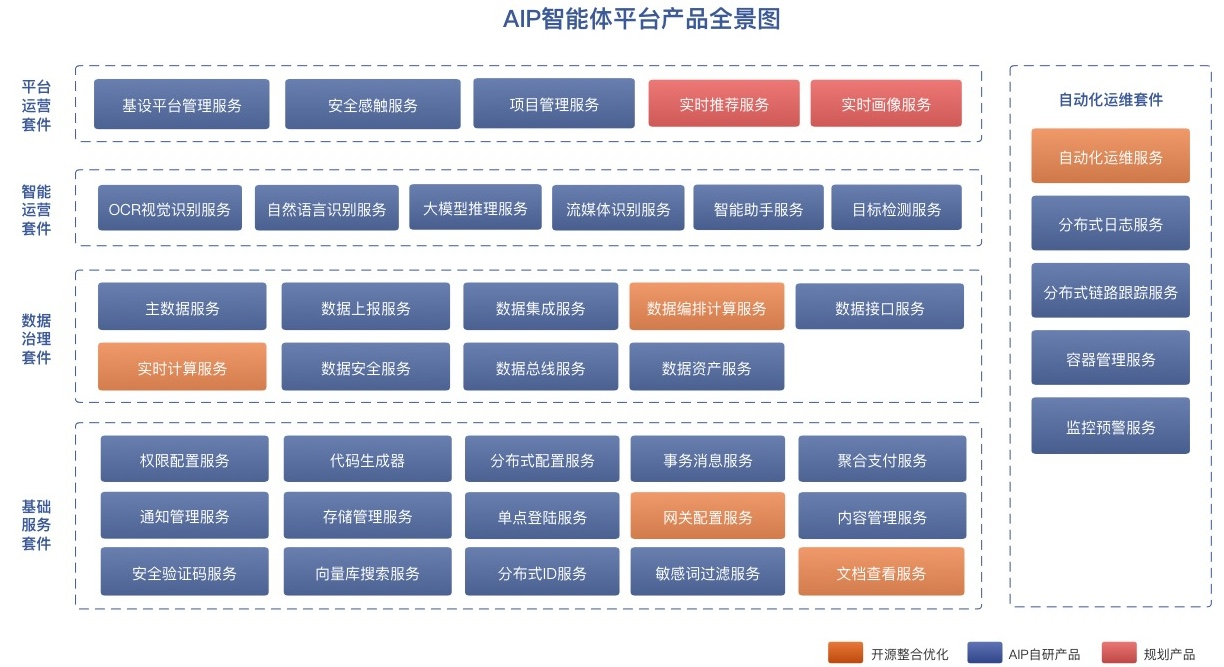
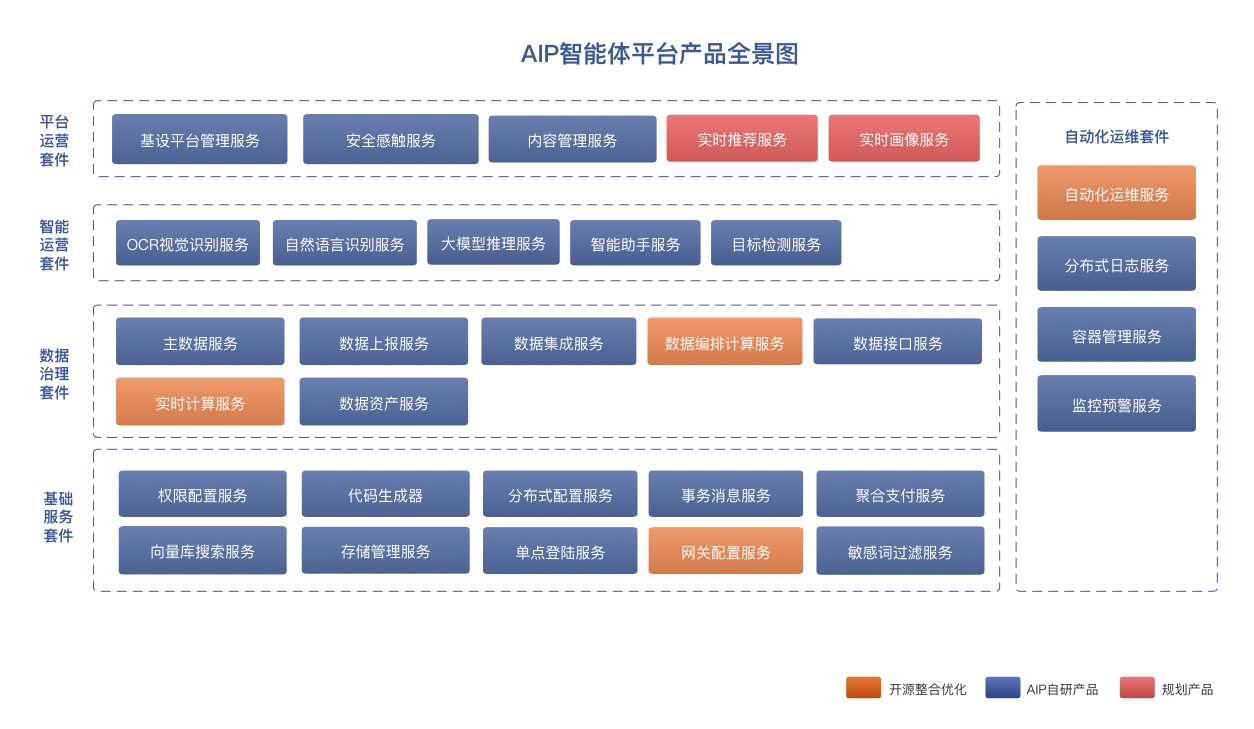
feat:调整产品全景图

diff --git a/docs/product/ProductIntro.md b/docs/product/ProductIntro.md
@@ -34,38 +34,30 @@
 | 1    | 基础服务    | 01. 权限配置服务       | alinesno-infra-base-authority        | <i class="fa-solid fa-file-pdf"></i>[查看产品PPT介绍][alinesno-infra-base-authority]        | 编写中 |                     |
 | 2    |             | 02. 代码生成器         | alinesno-infra-base-starter          | <i class="fa-solid fa-file-pdf"></i>[查看产品PPT介绍][alinesno-infra-base-starter]          | 编写中 |                     |
 | 3    |             | 03. 分布式配置服务     | alinesno-infra-base-config           | <i class="fa-solid fa-file-pdf"></i>[查看产品PPT介绍][alinesno-infra-base-config]           | 编写中 |                     |
-| 4    |             | 20. 文档查看服务       | alinesno-infra-base-fileshow         | <i class="fa-solid fa-file-pdf"></i>[查看产品PPT介绍][alinesno-infra-base-fileshow ]        | 编写中 |                     |
-| 5    |             | 04. 事务消息服务       | alinesno-infra-base-message          | <i class="fa-solid fa-file-pdf"></i>[查看产品PPT介绍][alinesno-infra-base-message]          | 编写中 |                     |
-| 6    |             | 05. 通知管理服务       | alinesno-infra-base-notices          | <i class="fa-solid fa-file-pdf"></i>[查看产品PPT介绍][alinesno-infra-base-notices]          | 编写中 |                     |
-| 7    |             | 06. 存储管理服务       | alinesno-infra-base-storage          | <i class="fa-solid fa-file-pdf"></i>[查看产品PPT介绍][alinesno-infra-base-storage]          | 编写中 |                     |
-| 8    |             | 07. 单点登陆服务       | alinesno-infra-base-identity         | <i class="fa-solid fa-file-pdf"></i>[查看产品PPT介绍][alinesno-infra-base-identity]         | 编写中 |                     |
-| 9    |             | 08. 网关配置服务       | alinesno-infra-base-gateway          | <i class="fa-solid fa-file-pdf"></i>[查看产品PPT介绍][alinesno-infra-base-gateway]          | 编写中 |                     |
-| 10   |             | 09. 安全验证码服务     | alinesno-infra-base-validate         | <i class="fa-solid fa-file-pdf"></i>[查看产品PPT介绍][alinesno-infra-base-validate]         | 编写中 |                     |
-| 11   |             | 12. 文档搜索服务       | alinesno-infra-base-document         | <i class="fa-solid fa-file-pdf"></i>[查看产品PPT介绍][alinesno-infra-base-document]         | 编写中 |                     |
-| 12   |             | 13. 分布式ID服务       | alinesno-infra-base-id               | <i class="fa-solid fa-file-pdf"></i>[查看产品PPT介绍][alinesno-infra-base-id]               | 编写中 |                     |
-| 13   |             | 14. 敏感词过滤服务     | alinesno-infra-base-sensitive        | <i class="fa-solid fa-file-pdf"></i>[查看产品PPT介绍][alinesno-infra-base-sensitive]        | 编写中 |                     |
-| 14   |             | 15. 支付服务           | alinesno-infra-base-pay              | <i class="fa-solid fa-file-pdf"></i>[查看产品PPT介绍][alinesno-infra-base-pay]              | 编写中 |                     |
-| 15   |             | 17. 内容服务           | alinesno-infra-base-cms              | <i class="fa-solid fa-file-pdf"></i>[查看产品PPT介绍][alinesno-infra-base-cms]              | 编写中 |                     |
+| 4    |             | 04. 事务消息服务       | alinesno-infra-base-message          | <i class="fa-solid fa-file-pdf"></i>[查看产品PPT介绍][alinesno-infra-base-message]          | 编写中 |                     |
+| 5    |             | 06. 存储管理服务       | alinesno-infra-base-storage          | <i class="fa-solid fa-file-pdf"></i>[查看产品PPT介绍][alinesno-infra-base-storage]          | 编写中 |                     |
+| 6    |             | 07. 单点登陆服务       | alinesno-infra-base-identity         | <i class="fa-solid fa-file-pdf"></i>[查看产品PPT介绍][alinesno-infra-base-identity]         | 编写中 |                     |
+| 7    |             | 08. 网关配置服务       | alinesno-infra-base-gateway          | <i class="fa-solid fa-file-pdf"></i>[查看产品PPT介绍][alinesno-infra-base-gateway]          | 编写中 |                     |
+| 8    |             | 12. 文档搜索服务       | alinesno-infra-base-document         | <i class="fa-solid fa-file-pdf"></i>[查看产品PPT介绍][alinesno-infra-base-document]         | 编写中 |                     |
+| 9    |             | 14. 敏感词过滤服务     | alinesno-infra-base-sensitive        | <i class="fa-solid fa-file-pdf"></i>[查看产品PPT介绍][alinesno-infra-base-sensitive]        | 编写中 |                     |
+| 10   |             | 15. 支付服务           | alinesno-infra-base-pay              | <i class="fa-solid fa-file-pdf"></i>[查看产品PPT介绍][alinesno-infra-base-pay]              | 编写中 |                     |
+| 11   |             | 17. 内容服务           | alinesno-infra-base-cms              | <i class="fa-solid fa-file-pdf"></i>[查看产品PPT介绍][alinesno-infra-base-cms]              | 编写中 |                     |
 |      |             |                        |                                      |                                                                                             |        |                     |
 | 1    |             | 01. 主数据服务         | alinesno-infra-data-mdm              | <i class="fa-solid fa-file-pdf"></i>[查看产品PPT介绍][alinesno-infra-data-mdm]              | 编写中 |                     |
 | 2    |             | 02. 数据上报服务       | alinesno-infra-data-report           | <i class="fa-solid fa-file-pdf"></i>[查看产品PPT介绍][alinesno-infra-data-report]           | 编写中 |                     |
 | 3    |             | 03. 数据集成服务       | alinesno-infra-data-pipeline         | <i class="fa-solid fa-file-pdf"></i>[查看产品PPT介绍][alinesno-infra-data-pipeline]         | 编写中 |                     |
 | 4    |             | 04. 数据开发服务       | alinesno-infra-data-dolphinscheduler | <i class="fa-solid fa-file-pdf"></i>[查看产品PPT介绍][alinesno-infra-data-dolphinscheduler] | 编写中 |                     |
 | 5    |             | 05. 实时计算服务       | alinesno-infra-data-stream           | <i class="fa-solid fa-file-pdf"></i>[查看产品PPT介绍][alinesno-infra-data-stream]           | 编写中 |                     |
-| 5    |             | 06. 数据安全服务       | alinesno-infra-data-security         | <i class="fa-solid fa-file-pdf"></i>[查看产品PPT介绍][alinesno-infra-data-security]         | 编写中 |                     |
-| 6    |             | 08. 数据总线服务       | alinesno-infra-data-bus              | <i class="fa-solid fa-file-pdf"></i>[查看产品PPT介绍][alinesno-infra-data-bus]              | 编写中 |                     |
 | 7    |             | 09. 数据资产服务       | alinesno-infra-data-assets           | <i class="fa-solid fa-file-pdf"></i>[查看产品PPT介绍][alinesno-infra-data-assets]           | 编写中 |                     |
 |      |             |                        |                                      |                                                                                             |        |                     |
 | 1    | 智能服务    | 01. OCR视觉识别服务    | alinesno-infra-smart-ocr             | <i class="fa-solid fa-file-pdf"></i>[查看产品PPT介绍][alinesno-infra-smart-ocr]             | 编写中 |                     |
 | 2    |             | 02. 自然语言识别服务   | alinesno-infra-smart-nlp             | <i class="fa-solid fa-file-pdf"></i>[查看产品PPT介绍][alinesno-infra-smart-nlp]             | 编写中 |                     |
 | 3    |             | 03. GPT推理服务        | alinesno-infra-smart-brain           | <i class="fa-solid fa-file-pdf"></i>[查看产品PPT介绍][alinesno-infra-smart-brain]           | 编写中 |                     |
-| 4    |             | 04. 流媒体识别服务     | alinesno-infra-smart-media           | <i class="fa-solid fa-file-pdf"></i>[查看产品PPT介绍][alinesno-infra-smart-media]           | 编写中 |                     |
 | 5    |             | 05. 智能助手服务       | alinesno-infra-smart-assistant       | <i class="fa-solid fa-file-pdf"></i>[查看产品PPT介绍][alinesno-infra-smart-assistant]       | 编写中 |                     |
 | 6    |             | 06. 目标检测识别服务   | alinesno-infra-smart-detection       | <i class="fa-solid fa-file-pdf"></i>[查看产品PPT介绍][alinesno-infra-smart-detection]       | 编写中 |                     |
 |      |             |                        |                                      |                                                                                             |        |                     |
 | 1    | 运维服务    | 01. 自动化任务服务     | alinesno-infra-ops-scheduler         | <i class="fa-solid fa-file-pdf"></i>[查看产品PPT介绍][alinesno-infra-ops-scheduler]         | 编写中 |                     |
 | 2    |             | 02. 分布式日志服务     | alinesno-infra-ops-logback           | <i class="fa-solid fa-file-pdf"></i>[查看产品PPT介绍][alinesno-infra-ops-logback]           | 编写中 |                     |
-| 3    |             | 03. 分布式链路跟踪服务 | alinesno-infra-ops-telemetry         | <i class="fa-solid fa-file-pdf"></i>[查看产品PPT介绍][alinesno-infra-ops-telemetry]         | 编写中 |                     |
 | 4    |             | 05. 容器管理服务       | alinesno-infra-ops-container         | <i class="fa-solid fa-file-pdf"></i>[查看产品PPT介绍][alinesno-infra-ops-container]         | 编写中 |                     |
 | 5    |             | 06. 监控预警服务       | alinesno-infra-ops-watcher           | <i class="fa-solid fa-file-pdf"></i>[查看产品PPT介绍][alinesno-infra-ops-watcher]           | 编写中 |                     |
 |      |             |                        |                                      |                                                                                             |        |                     |
